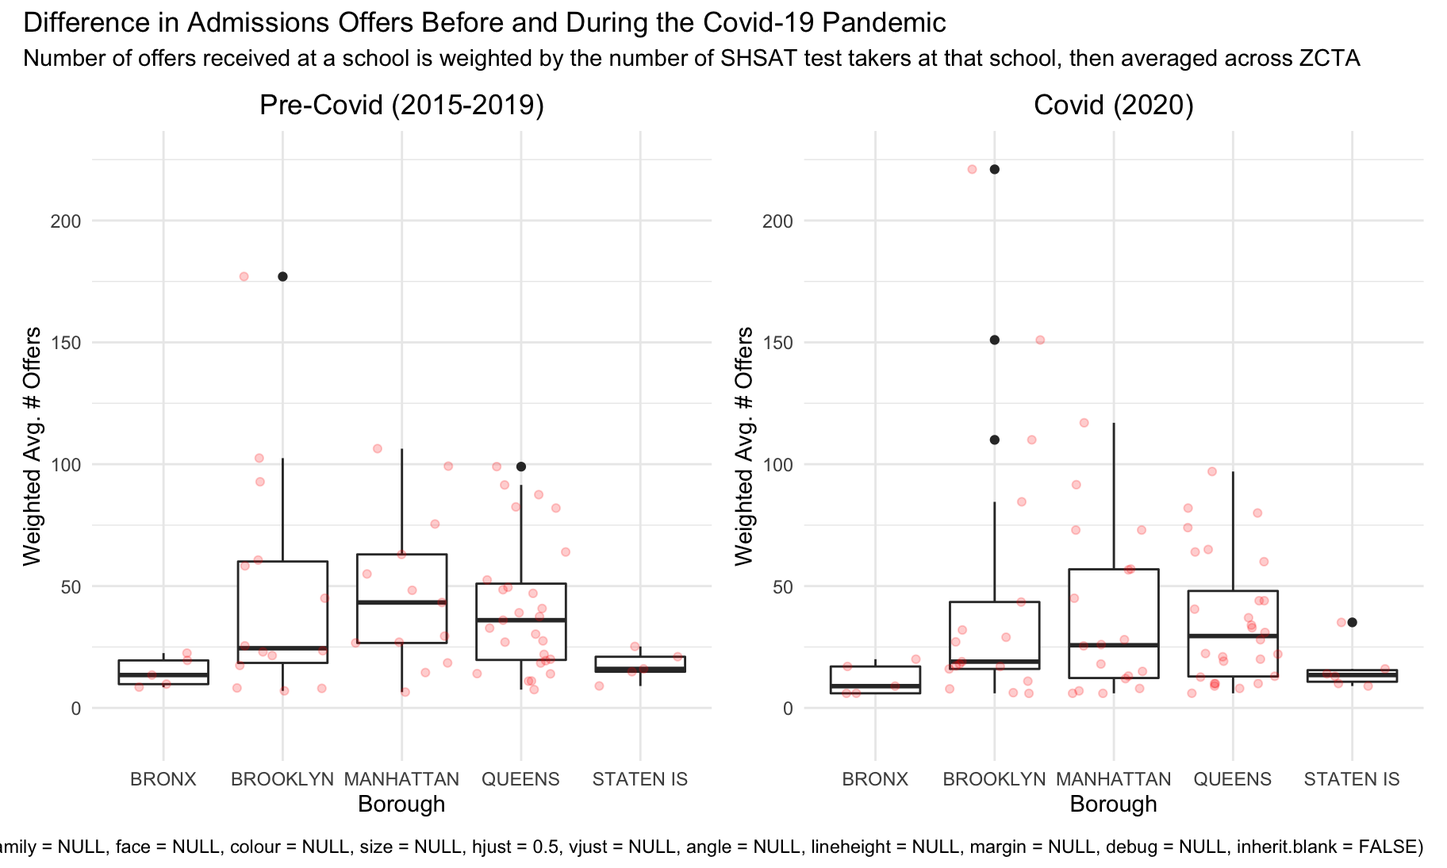
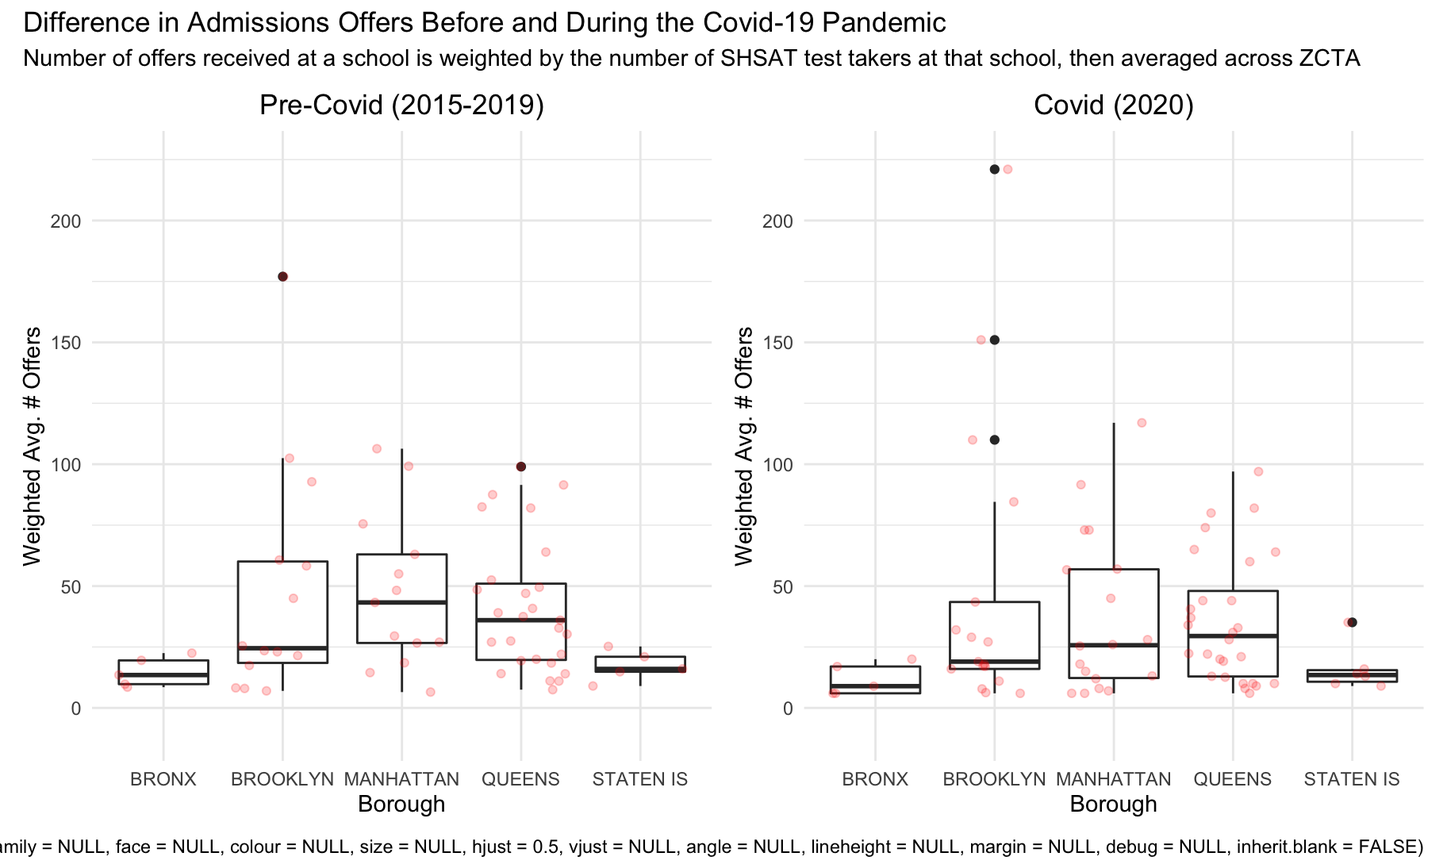
Working on the results section of the report

diff --git a/Final_Project_Report.html b/Final_Project_Report.html
@@ -15,8 +15,8 @@
 
 <title>P8105 Final Project Report</title>
 
-<script src="site_libs/header-attrs-2.10/header-attrs.js"></script>
-<script src="site_libs/jquery-1.11.3/jquery.min.js"></script>
+<script src="site_libs/header-attrs-2.11/header-attrs.js"></script>
+<script src="site_libs/jquery-3.6.0/jquery-3.6.0.min.js"></script>
 <meta name="viewport" content="width=device-width, initial-scale=1" />
 <link href="site_libs/bootstrap-3.3.5/css/spacelab.min.css" rel="stylesheet" />
 <script src="site_libs/bootstrap-3.3.5/js/bootstrap.min.js"></script>
@@ -516,7 +516,7 @@ shsat_zip_df =
   drop_na()
 
 # write.csv(shsat_zip_df, &quot;shsat_data.csv&quot;)</code></pre>
-<p>Because the DOE middle school directory only includes data for public middle schools, addresses were not available for charter schools and thus charter schools were excluded from this analysis (max of n = 191 in 2020), leaving data for 464 schools for 2015-2017, 465 schools for 2018 and 2019, and 467 schools in 2020 (See TABLE WHAT NUMBER???).</p>
+<p>Because the DOE middle school directory only includes data for public middle schools, addresses were not available for charter schools and thus charter schools were excluded from this analysis (max of n = 191 in 2020), leaving data for 464 schools for 2015-2017, 465 schools for 2018 and 2019, and 467 schools in 2020 (See table below).</p>
 <pre class="r"><code># keep a version of the shsat_zip_df that retains NA values just to count NAs
 
 full_shsat_zip_df =
@@ -555,6 +555,23 @@ n_removed_table =
 ## |2018 |                         120|                    465|
 ## |2019 |                         130|                    465|
 ## |2020 |                         191|                    467|</code></pre>
+<p>Filtering out schools with fewer than 5 offers in any given year (<code>n_offers &lt; 5</code>) left approximately 120 schools per year. This subset was used in all subsequent analysis.</p>
+<pre class="r"><code>  shsat_zip_df %&gt;%
+  filter(n_offers &gt; 5) %&gt;%
+  group_by(year) %&gt;% 
+  summarise(n_schools = n()) %&gt;% 
+  knitr::kable() %&gt;% 
+  print()</code></pre>
+<pre><code>## 
+## 
+## |year | n_schools|
+## |:----|---------:|
+## |2015 |       118|
+## |2016 |       114|
+## |2017 |       116|
+## |2018 |       117|
+## |2019 |       107|
+## |2020 |       103|</code></pre>
 <p>Lastly, we calculated the weighted average of offers for all years, 2015-2019, and 2020 by using the <code>weighted.mean()</code> function, weighting the number of offers at a school by the number of students applying to specialized high schools, and averaging across all schools within a ZCTA. All weighted averages were calculated after filtering to select only schools with &gt; 5 offers total. Furthermore, <code>n_offers</code> and <code>n_testers</code> were similarly averaged within a ZCTA and for all years, 2015-2019, and 2020 alone.</p>
 <pre class="r"><code>filtered_wt_avgs_df =
   read_csv(&quot;raw_data/project_df.csv&quot;) %&gt;%
@@ -592,6 +609,15 @@ n_removed_table =
 # write.csv(wt_avgs_df, &quot;filtered_weighted_avgs.csv&quot;)</code></pre>
 </div>
 </div>
+<div id="covid-19-cumulative-incidence-rate-in-2020" class="section level3">
+<h3>Covid-19 cumulative incidence rate in 2020</h3>
+<p>The Covid-19 cumulative incidence rate in 2020 was imported directly from the github repository of the <a href="https://github.com/nychealth/coronavirus-data">NYC Department of Health and Mental Hygiene</a> This data set contains the cumulative Covid-19 positive incidence rate from March 2020 until December 2020. In this data set, a person is classified as a confirmed COVID-19 case if they test positive with a molecular test.This data set include people who live in NYC. Any person with a residence outside of NYC is not included. Children attending school and their families should be residents in NYC to do so, thus, this is a potential benefit of using this data set, which is excluding the “noise” from external individuals testing positive for Covid-19 in a neighborhood but not residing there.</p>
+<pre class="r"><code>test2 &lt;- read_csv(&quot;raw_data/tests-by-zcta.csv&quot;)</code></pre>
+</div>
+<div id="modzcta-level-shapefile" class="section level3">
+<h3>MODZCTA level shapefile</h3>
+<p>To obtain consistent area units across the datasets, we used a <a href="https://github.com/nychealth/coronavirus-data/blob/master/Geography-resources/ZCTA-to-MODZCTA.csv">crosswalk file</a> to convert zip-codes to MODZCTAs. MODZCTAs, based on the 2010 U.S. Census, arecurrently used by the NYC DOHMH for the mapping of COVID-19. The use of MODZCTA as out spatial level allow us to overcome several limitations of the zip code level data (i.e., A ZIP Code doesn’t actually refer to an area, but rather a collection of points that make up a mail delivery route). The modified ZCTA (MODZCTA) geography combines census blocks with smaller populations to allow more stable estimates of population size for rate calculation. Information by geography reflect people’s MODZCTA of residence at the time of reporting, and not the location of testing, diagnosing, or hospitalization. The ZCTA geography was developed by the U.S. Census Bureau.</p>
+</div>
 <div id="variable-dictionary" class="section level3">
 <h3>Variable Dictionary</h3>
 <p><code>n_offers</code> = total number of eighth grade students who received an offer to a specialized high school at a given middle school</p>
@@ -599,20 +625,8 @@ n_removed_table =
 <p><code>n_hs_applicants</code> = total number of eighth grade students participating in the high school applications process (applicants to specialized + non-specialized high schools) at a given middle school</p>
 <p><code>dbn</code> = district borough number, a unique school identification number assigned by the NYC DOE</p>
 <p><code>feeder_school</code> = full name of the “sending” middle school (middle school at which applicants are currently enrolled)</p>
-</div>
-<div id="covid-19-cumulative-incidence-rate-in-2020" class="section level3">
-<h3>Covid-19 cumulative incidence rate in 2020</h3>
-<p>The Covid-19 cumulative incidence rate in 2020 was imported directly from the github repository of the <a href="https://github.com/nychealth/coronavirus-data">NYC Department of Health and Mental Hygiene</a> This data set contains the cumulative Covid-19 positive incidence rate from March 2020 until December 2020. In this data set, a person is classified as a confirmed COVID-19 case if they test positive with a molecular test.This data set include people who live in NYC. Any person with a residence outside of NYC is not included. Children attending school and their families should be residents in NYC to do so, thus, this is a potential benefit of using this data set, which is excluding the “noise” from external individuals testing positive for Covid-19 in a neighborhood but not residing there.</p>
-</div>
-<div id="variable-dictionary-1" class="section level3">
-<h3>Variable Dictionary</h3>
 <p><code>modzcta_cum_perc_pos</code> = cumulative incidence of confirmed Covid-19 positive cases from March 2020 until December 2020 in NYC.</p>
-<pre class="r"><code>test2 &lt;- read_csv(&quot;raw_data/tests-by-zcta.csv&quot;)</code></pre>
 </div>
-</div>
-<div id="modzcta-level-shapefile" class="section level2">
-<h2>MODZCTA level shapefile</h2>
-<p>To obtain consistent area units across the datasets, we used a <a href="https://github.com/nychealth/coronavirus-data/blob/master/Geography-resources/ZCTA-to-MODZCTA.csv">crosswalk file</a> to convert zip-codes to MODZCTAs. MODZCTAs, based on the 2010 U.S. Census, arecurrently used by the NYC DOHMH for the mapping of COVID-19. The use of MODZCTA as out spatial level allow us to overcome several limitations of the zip code level data (i.e., A ZIP Code doesn’t actually refer to an area, but rather a collection of points that make up a mail delivery route). The modified ZCTA (MODZCTA) geography combines census blocks with smaller populations to allow more stable estimates of population size for rate calculation. Information by geography reflect people’s MODZCTA of residence at the time of reporting, and not the location of testing, diagnosing, or hospitalization. The ZCTA geography was developed by the U.S. Census Bureau.</p>
 </div>
 <div id="data-join" class="section level2">
 <h2>Data Join</h2>
@@ -653,6 +667,9 @@ final_mod_zcta &lt;- full_join(school_covidtest, covid_deathrate, by = &quot;mod
 
 # write_csv(final_mod_zcta, &quot;final_mod_zcta.csv&quot;)</code></pre>
 </div>
+</div>
+<div id="results" class="section level1">
+<h1>Results</h1>
 <div id="exploratory-data-analysis-eda" class="section level2">
 <h2>Exploratory Data Analysis (EDA)</h2>
 <div id="the-distribution-of-specialized-high-school-offers-in-new-york-city" class="section level4">
@@ -708,10 +725,9 @@ shsat_covid_df %&gt;%
   ) +
   theme(axis.text.x = element_text(angle = 90))</code></pre>
 <p><img src="Final_Project_Report_files/figure-html/teters_vs_allapps-1.png" width="90%" /></p>
-<p>Note that data from 2015 are excluded from this figure as the number of students applying specifically to specialized high school applicants was the same as the number of students in general high school admissions, suggesting that the number of students in general admissions was not recorded for 2015.</p>
 <p>Since applying to most high schools and to specialized high schools are two separate processes, we were interested in whether there is a relationship between how common it is to apply to specialized high schools at a given middle school, and how many specialized high school admissions offers that school receives. The X axis of Figure 2 describes: out of the students applying to high school, how many are also applying to specialized high schools? The Y axis then adds: how many students receive offers to specialized high schools for different prevalence of specialized high school applications?</p>
-<p>In the Bronx and on Staten Island, there are few schools where a majority of the students applying to high school are additionally applying to specialized high schools, and of the students who do apply to specialized high schools, few receive an offer.</p>
-<p>In Brooklyn, Manhattan, and Queens, the greatest proportion of admissions offers per specialized high school applicant are received at schools where most students apply to specialized high schools. In Brooklyn and Queens, there are some schools where most students apply to specialized high schools, but few get in. Overall, these data suggest that the middle school a student attends is strongly correlated with how likely that student is to be offered admission to a specialized high school.</p>
+<p>Note that data from 2015 are excluded from this figure as the number of students applying specifically to specialized high school applicants was the same as the number of students in general high school admissions, suggesting that the number of students in general admissions was not recorded for 2015.</p>
+<p>In the Bronx and on Staten Island, there are few schools where a majority of the students applying to high school are additionally applying to specialized high schools, and of the students who do apply to specialized high schools, few receive an offer. In Brooklyn, Manhattan, and Queens, the greatest proportion of admissions offers per specialized high school applicant are received at schools where most students apply to specialized high schools. In Brooklyn and Queens, there are some schools where most students apply to specialized high schools, but few get in. Overall, these data suggest that the middle school a student attends is strongly correlated with how likely that student is to be offered admission to a specialized high school.</p>
 </div>
 <div id="specialized-high-school-offers-and-covid-19" class="section level4">
 <h4>Specialized High School Offers and Covid-19</h4>
@@ -787,7 +803,9 @@ patchwork + plot_annotation(
   theme(text = element_text(hjust = 0.5))
 )</code></pre>
 <p><img src="Final_Project_Report_files/figure-html/wt_avg_covid_precovid-1.png" width="90%" /></p>
-<p><em>Figure 4</em></p>
+<p>First, we wanted to see if there was a year-to-year difference in numbers of offers in each borough before 2020 and during 2020, to broadly capture the potential effects of the Covid-19 pandemic. To do so, we plotted the weighted average number of offers in 2020 and averaged from 2015-2019. The weighted average number of offers is the number of offers per school, weighted by the number of applicants at that school, averaged within a ZCTA. Pre-covid data (2015-2019) is the weighted average number of offers per ZCTA, averaged again across the years 2015-2019.</p>
+<p>The weighted average number of offers seems to have stayed largely the same pre- and during the Covid-19 pandemic in the Bronx and on Staten Island, though Staten Island does seem to have a ZCTA where middle schools performed better in 2020 than in previous years. Interestingly, the median weighted average number of offers for zip codes Manhattan decreased in the pandemic, though there were still a few zip codes performing as well as in previous years. In Brooklyn, there are a few ZCTAs in which students had an unusually high number of offers in 2020, though, like Manhattan, the median number-of-applicant-weighted average number of offers per Brooklyn zip code is lower in 2020 than in the preceding five years.</p>
+<p><em>Figure 4: Covid Data and Offers of Admission</em></p>
 <pre class="r"><code># join in borough data that was excluded from the final analysis df
 modzcta_to_borough = 
   shsat_covid_df %&gt;% 
@@ -843,12 +861,23 @@ patchwork + plot_annotation(
   title = &quot;Relationship Bewteen Covid Positvity Rate, Death Rate and Number of Offers per ZCTA&quot;
 )</code></pre>
 <p><img src="Final_Project_Report_files/figure-html/covid_admit_rate_gg-1.png" width="90%" /></p>
+<p>We next wanted to understand whether the COVID-19 pandemic affected success in specialized high school admissions for 2020, and plotted the weighted average number of offers in a ZCTA against two measures of Covid rates, the cumulative percent positivity rate and the cumulative average Covid-19 death rate per 100,000 from March, 2020, to December, 2020.</p>
+<p>There appears to be a weak negative linear association between the average COVID-19 percent positivity rate testing and the average number of offers for middle schools within a particular ZCTA. This suggests that zip codes that had high COVID-19 case rates also tend to have middle schools where few students receive admissions offers to specialized high schools. There appears to be no relationship between the average number of offers and the cumulative average COVID-19 death rate per 100,000. Thus our prediction for our linear models is that there will be an association with the COVID test positive rate, but no association with the average death rate.</p>
 </div>
 </div>
 <div id="primary-analysis" class="section level2">
 <h2>Primary Analysis</h2>
 <p>We used descriptive statistics to summarize the distribution of our dependent variable: the average number of SHSAT offers in 2020 by MOZCTA, and relevant predictors: the cumulative Covid-19 positive incidence rate and the cumulative death rate from March until December 2020.</p>
-<p>We rann chi square tests to test if there was a significant difference between the number of offers in 2020 and the number of offers from 2015 until 2019. Additionally we tested if there was a significant difference between the number of testers in 2020 and the weighted average for the number of offers from 2015 until 2019.</p>
+<pre class="r"><code>data = read_csv(&quot;raw_data/final_mod_zcta.csv&quot;)
+data = data %&gt;% 
+  filter(!is.na(modzcta_cum_perc_pos))
+summary(data$modzcta_cum_perc_pos)</code></pre>
+<pre><code>##    Min. 1st Qu.  Median    Mean 3rd Qu.    Max. 
+##    9.30   19.62   24.90   23.85   28.88   88.50</code></pre>
+<pre class="r"><code>summary(data$cum_ave_death_rate)</code></pre>
+<pre><code>##    Min. 1st Qu.  Median    Mean 3rd Qu.    Max.    NA&#39;s 
+##    0.00   34.70   53.60   56.31   70.28  160.43       3</code></pre>
+<p>We ran chi square tests to test if there was a significant difference between the number of offers in 2020 and the number of offers from 2015 until 2019. Additionally we tested if there was a significant difference between the number of testers in 2020 and the weighted average for the number of offers from 2015 until 2019.</p>
 <pre class="r"><code>chisq_df =
   read_csv(&quot;raw_data/project_df.csv&quot;) %&gt;%
   filter(n_offers &gt; 5) %&gt;% 
@@ -868,42 +897,52 @@ patchwork + plot_annotation(
     `2020_prop` = `2020_offers` / `2020_testers`
   )
 
-chi1 &lt;- chisq_df %&gt;% 
+chi1 = chisq_df %&gt;% 
   select(`2015-19_avg_testers`, `2020_testers`) %&gt;% 
   chisq.test() 
 
-chi1 %&gt;% 
+chi1_df =
+  chi1 %&gt;% 
   broom::tidy() %&gt;% 
-  dplyr::select(p.value) %&gt;% 
-  knitr::kable(digits = 5)</code></pre>
+  dplyr::select(statistic, p.value) %&gt;% 
+  mutate(statistic = &quot;Number of Testers&quot;)
+
+knitr::kable(chi1_df, digits = 5)</code></pre>
 <table>
 <thead>
 <tr class="header">
+<th align="left">statistic</th>
 <th align="right">p.value</th>
 </tr>
 </thead>
 <tbody>
 <tr class="odd">
+<td align="left">Number of Testers</td>
 <td align="right">9e-05</td>
 </tr>
 </tbody>
 </table>
-<pre class="r"><code>chi2 &lt;- chisq_df %&gt;% 
+<pre class="r"><code>chi2 = chisq_df %&gt;% 
   select(`2015-19_avg_offers`, `2020_offers`) %&gt;% 
   chisq.test() 
 
-chi2 %&gt;% 
+chi2_df =
+  chi2 %&gt;% 
   broom::tidy() %&gt;% 
-  dplyr::select(p.value) %&gt;% 
-  knitr::kable(digits = 5)</code></pre>
+  dplyr::select(statistic, p.value) %&gt;% 
+  mutate(statistic = &quot;Number of Offers&quot;)
+
+knitr::kable(chi2_df, digits = 5)</code></pre>
 <table>
 <thead>
 <tr class="header">
+<th align="left">statistic</th>
 <th align="right">p.value</th>
 </tr>
 </thead>
 <tbody>
 <tr class="odd">
+<td align="left">Number of Offers</td>
 <td align="right">0.1244</td>
 </tr>
 </tbody>
@@ -914,61 +953,144 @@ chi2 %&gt;%
 <p>For our secondary analysis, we excluded all schools with less than 5 students receiving offers to specialized high schools to avoid positivity violations. Because our dependent variable is a count (number of offers), we used a poisson linear regression. However, because the distribution of the data was overspread, the variance did not equal the mean. To avoid the violation of this assumption, we used a Quasi-Poisson model, which assumes that the variance is a linear function of the mean. In our primary model, we calculated the change in the number of SHSAT offers by a 10% increase in the cumulative Covid-19 incidence. We progressively adjusted the model, including the total number of testers by MOZCTA. Additionally, we run a secondary model with 10% increase in the cumulative mortality rate as the main predictor.</p>
 <pre class="r"><code>#this is the main model (10% change in cumulative incidence as predictor)
 
-final_mod_zcta</code></pre>
-<pre><code>## # A tibble: 178 × 25
-##      `1` modzcta all_years_avg_testers all_years_avg_offers all_years_wt_avg
-##    &lt;dbl&gt;   &lt;dbl&gt;                 &lt;dbl&gt;                &lt;dbl&gt;            &lt;dbl&gt;
-##  1     1   10001                   5                    5               5   
-##  2     2   10002                  36.9                 28.4            43.2 
-##  3     3   10003                  42.8                 32.2            44.2 
-##  4     4   10004                  62.5                 36              10   
-##  5     5   10009                  19.5                 11.3             6.12
-##  6     6   10010                  80.5                 50.5            40.5 
-##  7     7   10011                  97.5                 75              99.2 
-##  8     8   10021                 255                  152.             75.5 
-##  9     9   10023                  11.3                 10               7   
-## 10    10   10024                  53.8                 40              28.7 
-## # … with 168 more rows, and 20 more variables: 2015_19_avg_testers &lt;dbl&gt;,
-## #   2015_19_avg_offers &lt;dbl&gt;, 2015_19_wt_avg &lt;dbl&gt;, avg_testers_2020 &lt;dbl&gt;,
-## #   avg_offers_2020 &lt;dbl&gt;, wt_avg_2020 &lt;dbl&gt;, positive &lt;dbl&gt;, total &lt;dbl&gt;,
-## #   modzcta_cum_perc_pos &lt;dbl&gt;, 3_2020 &lt;dbl&gt;, 4_2020 &lt;dbl&gt;, 5_2020 &lt;dbl&gt;,
-## #   6_2020 &lt;dbl&gt;, 7_2020 &lt;dbl&gt;, 8_2020 &lt;dbl&gt;, 9_2020 &lt;dbl&gt;, 10_2020 &lt;dbl&gt;,
-## #   11_2020 &lt;dbl&gt;, 12_2020 &lt;dbl&gt;, cum_ave_death_rate &lt;dbl&gt;</code></pre>
-<pre class="r"><code>model1 = glm(avg_offers_2020 ~ cum_perc , family = quasipoisson, data = data)</code></pre>
-<pre><code>## Error in model.frame.default(formula = avg_offers_2020 ~ cum_perc, data = data, : &#39;data&#39; must be a data.frame, environment, or list</code></pre>
-<pre class="r"><code>model1 %&gt;% 
+data &lt;- read_csv(&quot;raw_data/final_mod_zcta.csv&quot;) %&gt;% 
+  mutate(all_years_avg_offers = round(all_years_avg_offers, digits = 0), 
+         all_years_wt_avg_offers = round(all_years_avg_offers, digits = 0),
+         wt_avg_2020 = round(wt_avg_2020, digits = 0)) %&gt;% 
+  mutate(cum_perc = 10*(modzcta_cum_perc_pos),
+         cum_death = 10*(cum_ave_death_rate))
+
+
+model1 = glm(avg_offers_2020 ~ cum_perc , family = quasipoisson, data = data)
+
+model1 %&gt;% 
   broom::tidy() %&gt;% 
   dplyr::select(term, estimate, p.value) %&gt;% 
   mutate(term = str_replace(term, &quot;cum_perc&quot;, &quot;Cumulative incidence &quot;)) %&gt;% 
   knitr::kable(digits = 3)</code></pre>
-<pre><code>## Error in broom::tidy(.): object &#39;model1&#39; not found</code></pre>
+<table>
+<thead>
+<tr class="header">
+<th align="left">term</th>
+<th align="right">estimate</th>
+<th align="right">p.value</th>
+</tr>
+</thead>
+<tbody>
+<tr class="odd">
+<td align="left">(Intercept)</td>
+<td align="right">3.945</td>
+<td align="right">0.000</td>
+</tr>
+<tr class="even">
+<td align="left">Cumulative incidence</td>
+<td align="right">-0.005</td>
+<td align="right">0.012</td>
+</tr>
+</tbody>
+</table>
 <pre class="r"><code>#model adjusted by number of testers
-model3 = glm(avg_offers_2020 ~ cum_perc + avg_testers_2020, family = quasipoisson, data = data)</code></pre>
-<pre><code>## Error in model.frame.default(formula = avg_offers_2020 ~ cum_perc + avg_testers_2020, : &#39;data&#39; must be a data.frame, environment, or list</code></pre>
-<pre class="r"><code>model3 %&gt;% 
+model3 = glm(avg_offers_2020 ~ cum_perc + avg_testers_2020, family = quasipoisson, data = data)
+
+model3 %&gt;% 
   broom::tidy() %&gt;% 
   dplyr::select(term, estimate, p.value) %&gt;% 
   mutate(term = str_replace(term, &quot;cum_perc&quot;, &quot;Cumulative incidence &quot;)) %&gt;% 
   knitr::kable(digits = 3)</code></pre>
-<pre><code>## Error in broom::tidy(.): object &#39;model3&#39; not found</code></pre>
+<table>
+<thead>
+<tr class="header">
+<th align="left">term</th>
+<th align="right">estimate</th>
+<th align="right">p.value</th>
+</tr>
+</thead>
+<tbody>
+<tr class="odd">
+<td align="left">(Intercept)</td>
+<td align="right">2.714</td>
+<td align="right">0</td>
+</tr>
+<tr class="even">
+<td align="left">Cumulative incidence</td>
+<td align="right">-0.004</td>
+<td align="right">0</td>
+</tr>
+<tr class="odd">
+<td align="left">avg_testers_2020</td>
+<td align="right">0.011</td>
+<td align="right">0</td>
+</tr>
+</tbody>
+</table>
 <pre class="r"><code>#model adjusted by number of testers and death rate
-model4 = glm(avg_offers_2020 ~ cum_perc + avg_testers_2020 + cum_death, family = quasipoisson, data = data)</code></pre>
-<pre><code>## Error in model.frame.default(formula = avg_offers_2020 ~ cum_perc + avg_testers_2020 + : &#39;data&#39; must be a data.frame, environment, or list</code></pre>
-<pre class="r"><code>model4 %&gt;% 
+model4 = glm(avg_offers_2020 ~ cum_perc + avg_testers_2020 + cum_death, family = quasipoisson, data = data)
+
+model4 %&gt;% 
   broom::tidy() %&gt;% 
   dplyr::select(term, estimate, p.value) %&gt;% 
   mutate(term = str_replace(term, &quot;cum_perc&quot;, &quot;Cumulative incidence &quot;)) %&gt;% 
   knitr::kable(digits = 3)</code></pre>
-<pre><code>## Error in broom::tidy(.): object &#39;model4&#39; not found</code></pre>
+<table>
+<thead>
+<tr class="header">
+<th align="left">term</th>
+<th align="right">estimate</th>
+<th align="right">p.value</th>
+</tr>
+</thead>
+<tbody>
+<tr class="odd">
+<td align="left">(Intercept)</td>
+<td align="right">2.739</td>
+<td align="right">0.000</td>
+</tr>
+<tr class="even">
+<td align="left">Cumulative incidence</td>
+<td align="right">-0.005</td>
+<td align="right">0.000</td>
+</tr>
+<tr class="odd">
+<td align="left">avg_testers_2020</td>
+<td align="right">0.011</td>
+<td align="right">0.000</td>
+</tr>
+<tr class="even">
+<td align="left">cum_death</td>
+<td align="right">0.000</td>
+<td align="right">0.029</td>
+</tr>
+</tbody>
+</table>
 <pre class="r"><code>#model with a 10% change in death rate as the main predictor
-model2 = glm(wt_avg_2020 ~ cum_death, family = quasipoisson, data = data)</code></pre>
-<pre><code>## Error in model.frame.default(formula = wt_avg_2020 ~ cum_death, data = data, : &#39;data&#39; must be a data.frame, environment, or list</code></pre>
-<pre class="r"><code>model2 %&gt;% 
+model2 = glm(wt_avg_2020 ~ cum_death, family = quasipoisson, data = data)
+
+model2 %&gt;% 
   broom::tidy() %&gt;% 
   dplyr::select(term, estimate, p.value) %&gt;% 
   mutate(term = str_replace(term, &quot;cum_death&quot;, &quot;Cumulative death rate&quot;)) %&gt;% 
   knitr::kable(digits = 5)</code></pre>
-<pre><code>## Error in broom::tidy(.): object &#39;model2&#39; not found</code></pre>
+<table>
+<thead>
+<tr class="header">
+<th align="left">term</th>
+<th align="right">estimate</th>
+<th align="right">p.value</th>
+</tr>
+</thead>
+<tbody>
+<tr class="odd">
+<td align="left">(Intercept)</td>
+<td align="right">2.91136</td>
+<td align="right">0.00000</td>
+</tr>
+<tr class="even">
+<td align="left">Cumulative death rate</td>
+<td align="right">0.00005</td>
+<td align="right">0.90279</td>
+</tr>
+</tbody>
+</table>
 </div>
 <div id="discussion" class="section level2">
 <h2>Discussion</h2>
